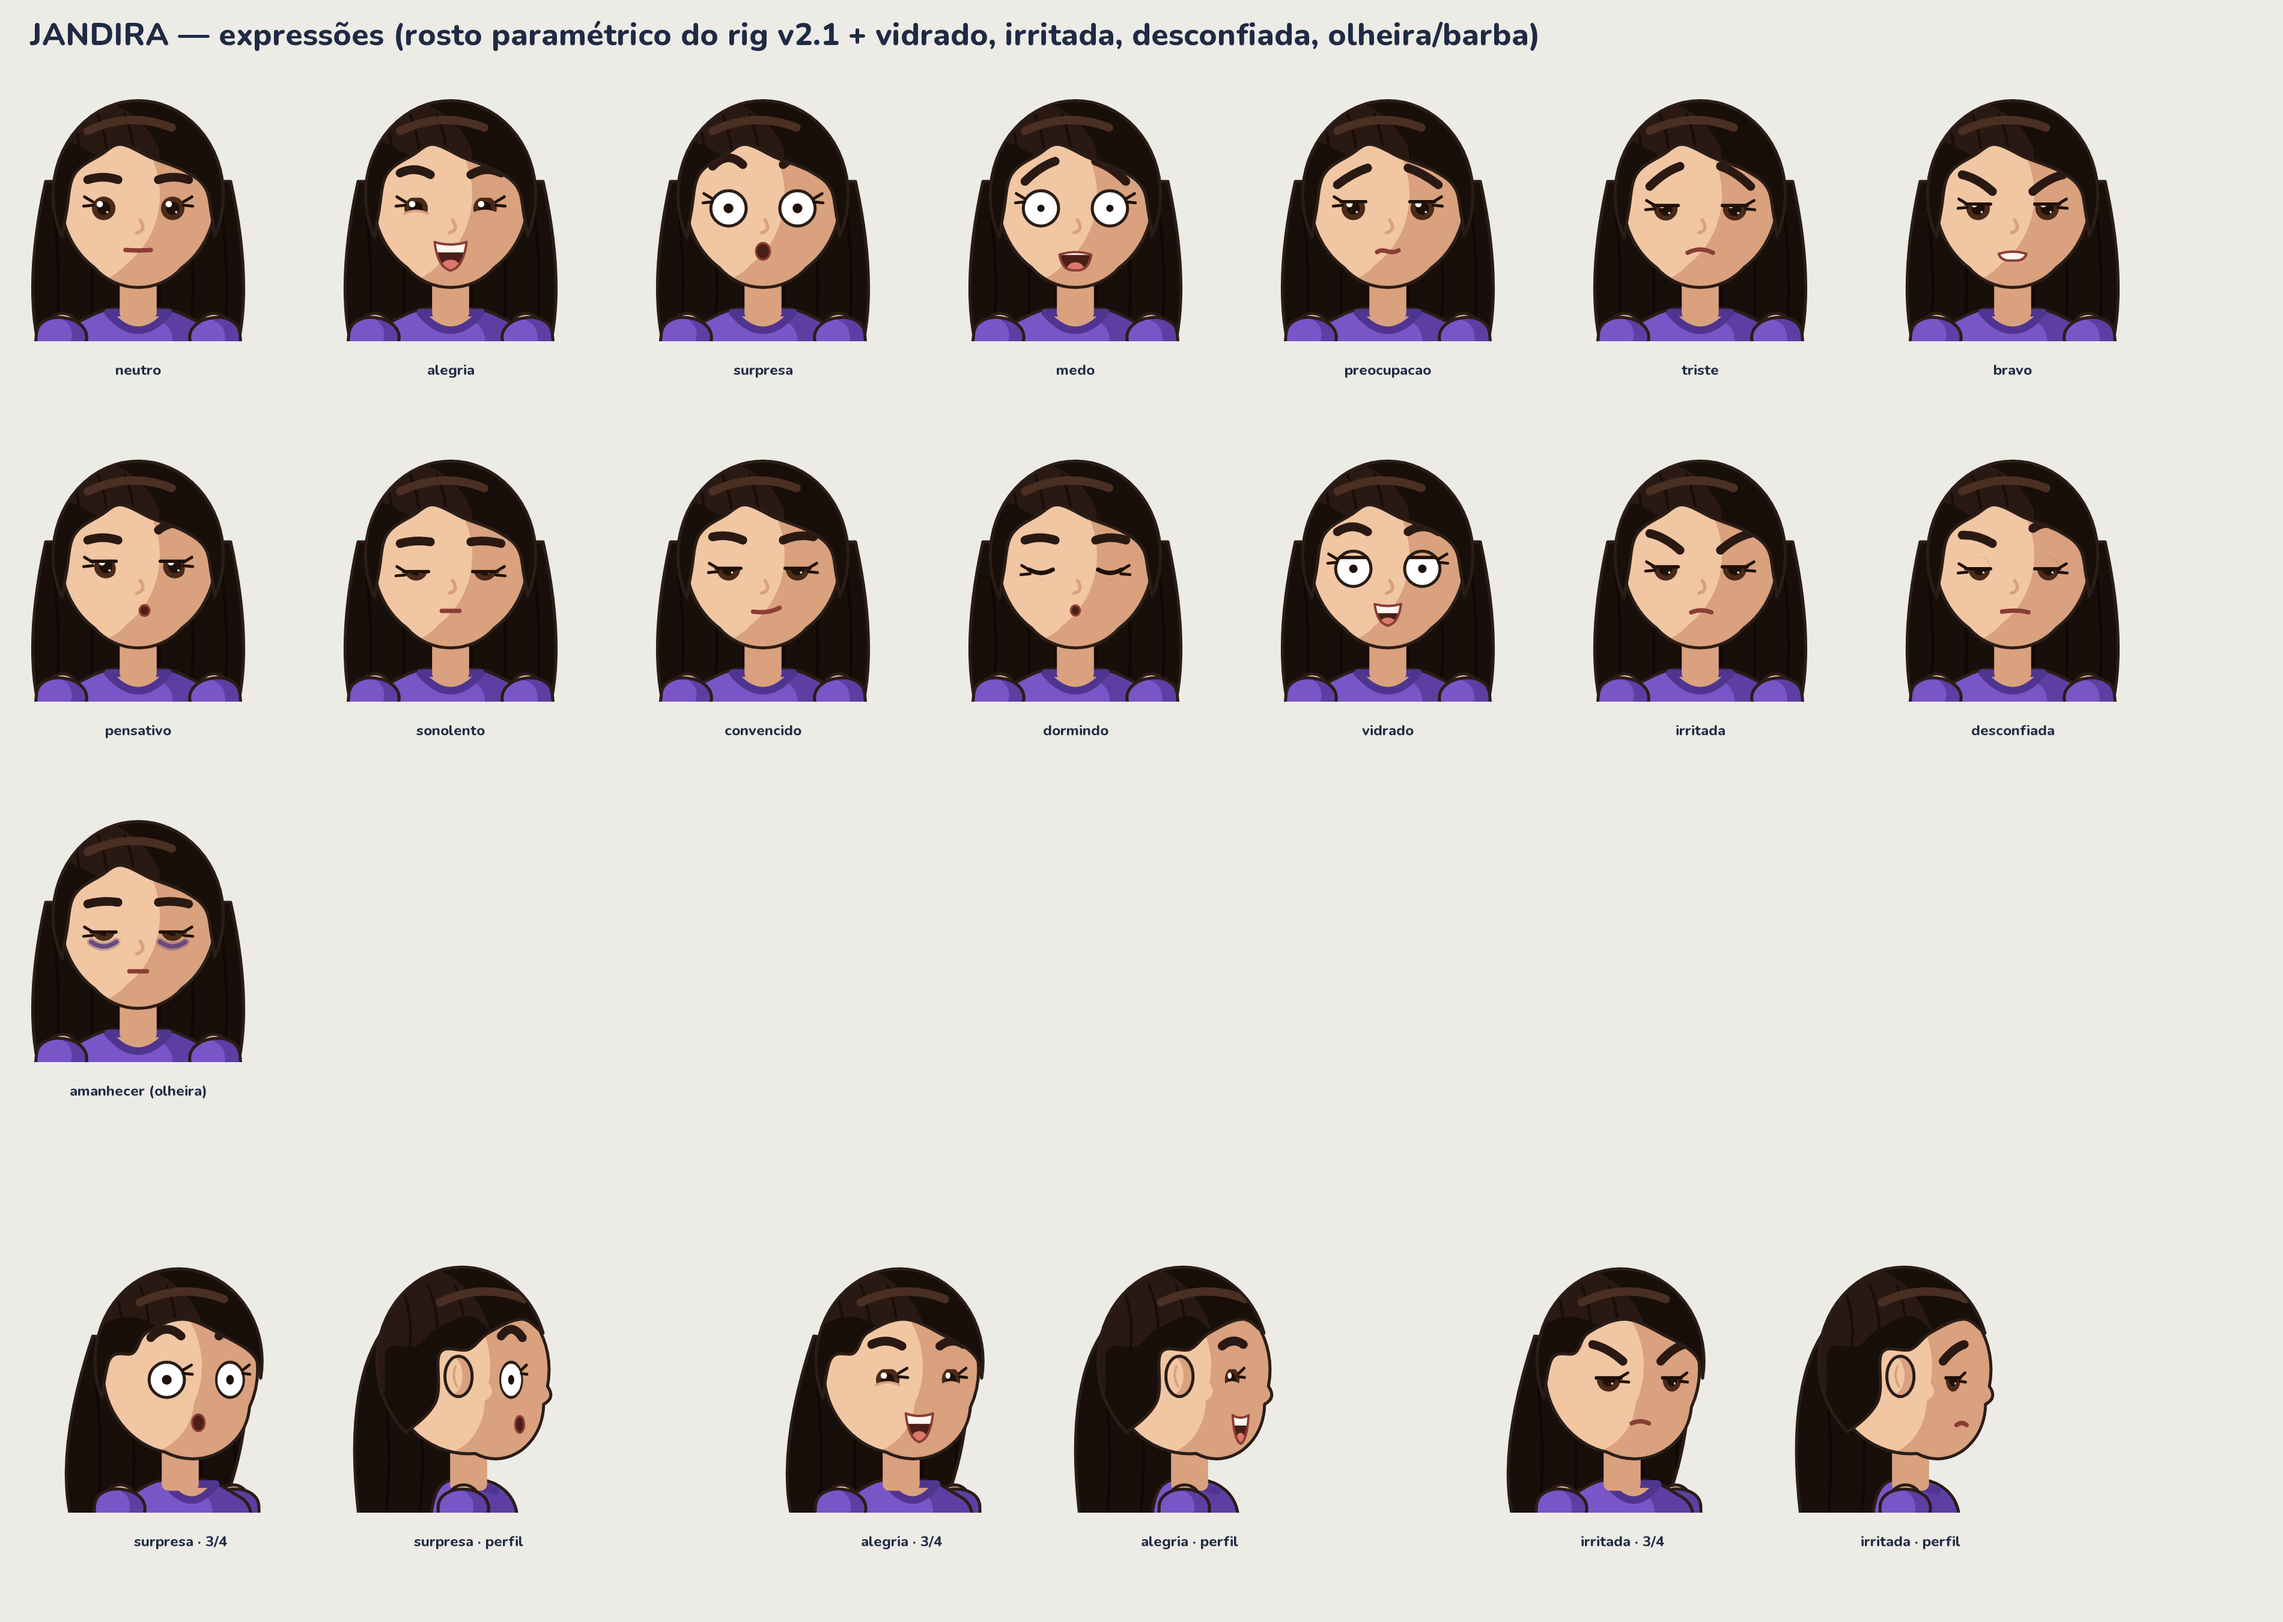
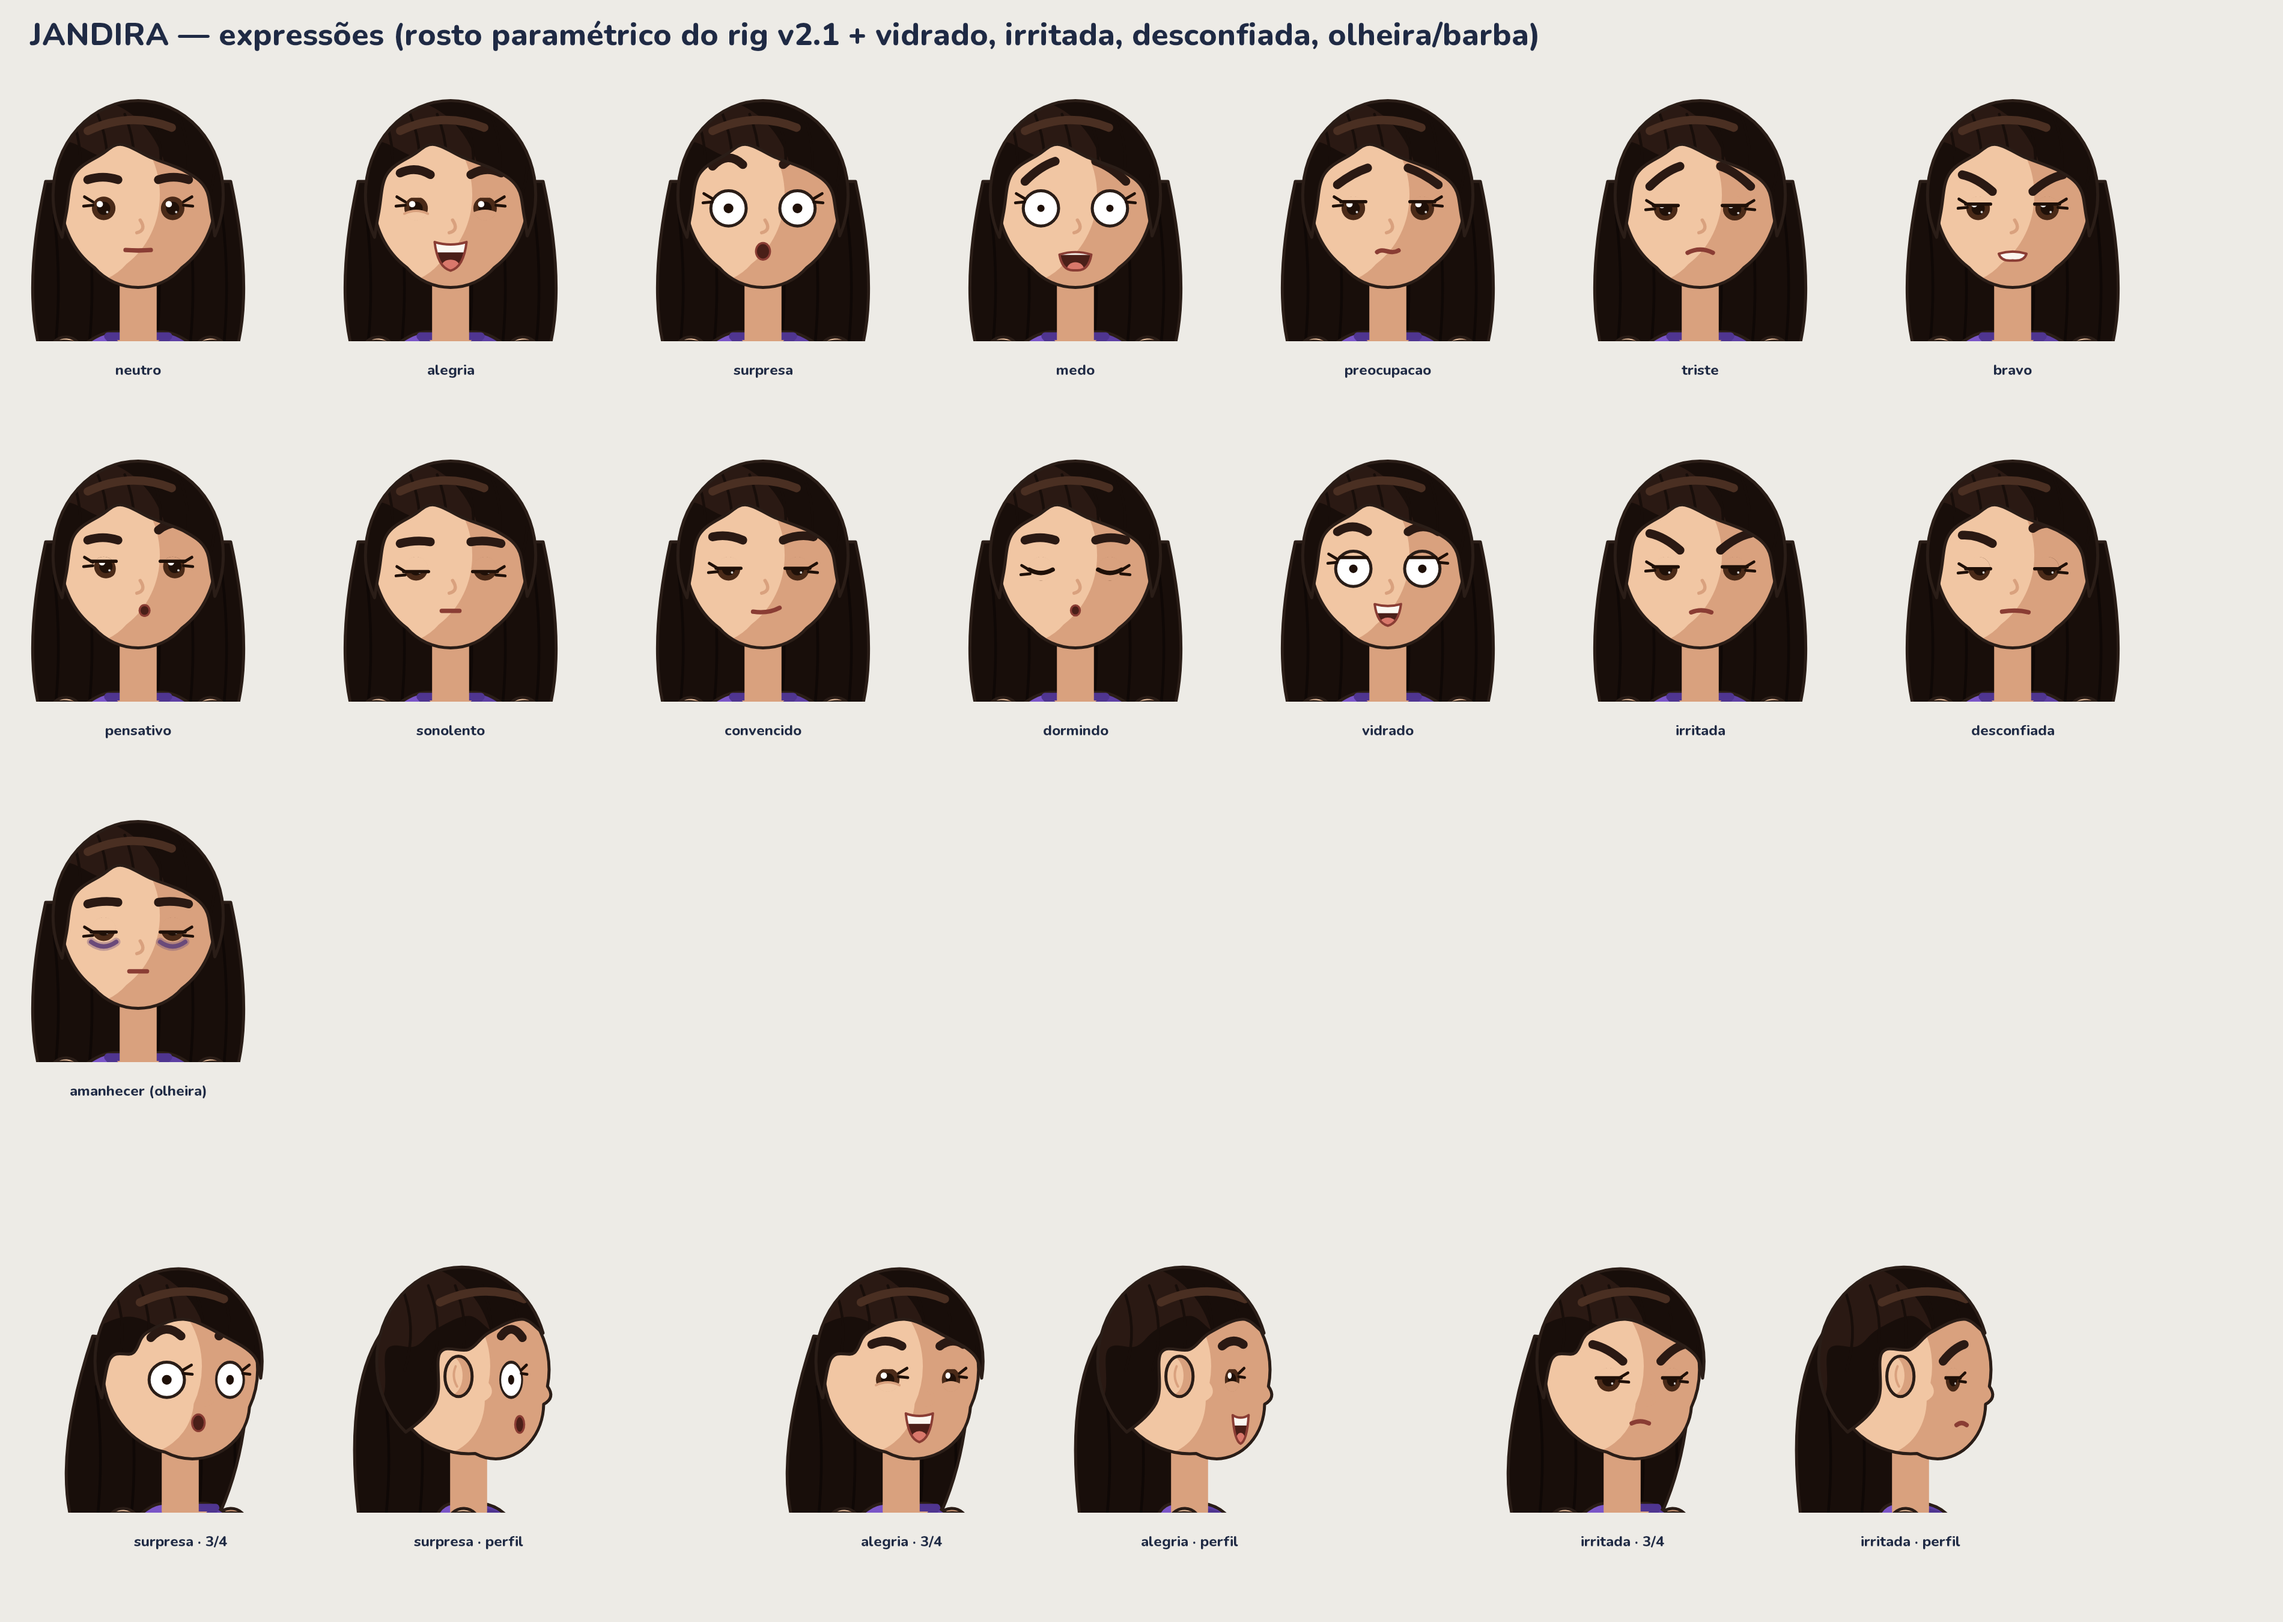
Juca e Jandira v1.1 (proposta): ombros mais baixos, pescoço mais longo, braços mais junto ao corpo; antes × depois
Claude-Session: https://claude.ai/code/session_011EYkUSqXLaaDeUvLHBExgD

diff --git a/personagens/adultos/rig_adulto.py b/personagens/adultos/rig_adulto.py
@@ -73,10 +73,11 @@ def _aplicar(H, esp):
     H.OMBRO_Y = -(P["ombro"] - P["barra_camisa"])
     H.PESCOCO_Y = -(P["pescoco"] - P["barra_camisa"])
     bx, qx = L["braco_x"], L["coxa_x"]
+    ab = L.get("braco_ang", 8.0)                      # v1.1: braços mais junto ao corpo em repouso
     H.LAYOUT = {
-        "frente": {"braco_d": (-bx, 8), "braco_e": (bx, -8), "coxa_d": (-qx, 0), "coxa_e": (qx, 0)},
-        "costas": {"braco_d": (bx, -8), "braco_e": (-bx, 8), "coxa_d": (qx, 0), "coxa_e": (-qx, 0)},
-        "tres_quartos": {"braco_d": (-bx * 0.79, 6), "braco_e": (bx * 0.70, -4), "coxa_d": (-qx * 0.8, 0), "coxa_e": (qx * 0.63, 0)},
+        "frente": {"braco_d": (-bx, ab), "braco_e": (bx, -ab), "coxa_d": (-qx, 0), "coxa_e": (qx, 0)},
+        "costas": {"braco_d": (bx, -ab), "braco_e": (-bx, ab), "coxa_d": (qx, 0), "coxa_e": (-qx, 0)},
+        "tres_quartos": {"braco_d": (-bx * 0.79, ab * 0.75), "braco_e": (bx * 0.70, -ab * 0.5), "coxa_d": (-qx * 0.8, 0), "coxa_e": (qx * 0.63, 0)},
         "perfil": {"braco_d": (-0.03, 2), "braco_e": (0.05, -2), "coxa_d": (-0.03, 0), "coxa_e": (0.06, 0)},
     }
     em = L["escala_mao"]
@@ -128,15 +129,15 @@ def _forma_tronco(H, esp, vista):
     p = skia.Path()
     if vista in ("frente", "costas", "tres_quartos"):
         k = 1.0 if vista != "tres_quartos" else 0.84
-        g = 0.14 * k
+        g = L.get("gola", 0.14) * k; qd, qc = L.get("trapezio", (0.075, 0.21))   # v1.1: trapézio desce mais devagar
         p.moveTo(-g, top - 0.025); p.lineTo(g, top - 0.025)
-        p.cubicTo(g + 0.09 * k, top - 0.02, om * k - 0.17 * k, top + 0.035, om * k - 0.085 * k, top + 0.075)
-        p.cubicTo(om * k - 0.03 * k, top + 0.10, om * k, top + 0.14, om * k, top + 0.21)
+        p.cubicTo(g + 0.09 * k, top - 0.02, om * k - 0.17 * k, top + qd * 0.45, om * k - 0.085 * k, top + qd)
+        p.cubicTo(om * k - 0.03 * k, top + qd + 0.025, om * k, top + qc - 0.07, om * k, top + qc)
         p.cubicTo(om * k + 0.01, meio, ci * k, meio * 0.5, ba * k, hem)
         p.lineTo(-ba * k, hem)
-        p.cubicTo(-ci * k, meio * 0.5, -om * k - 0.01, meio, -om * k, top + 0.21)
-        p.cubicTo(-om * k, top + 0.14, -om * k + 0.03 * k, top + 0.10, -om * k + 0.085 * k, top + 0.075)
-        p.cubicTo(-om * k + 0.17 * k, top + 0.035, -g - 0.09 * k, top - 0.02, -g, top - 0.025)
+        p.cubicTo(-ci * k, meio * 0.5, -om * k - 0.01, meio, -om * k, top + qc)
+        p.cubicTo(-om * k, top + qc - 0.07, -om * k + 0.03 * k, top + qd + 0.025, -om * k + 0.085 * k, top + qd)
+        p.cubicTo(-om * k + 0.17 * k, top + qd * 0.45, -g - 0.09 * k, top - 0.02, -g, top - 0.025)
         if vista == "tres_quartos":
             p.transform(skia.Matrix.Translate(0.02, 0))
     else:
@@ -398,7 +399,8 @@ def _desenhar_cabelo_tras(H, esp, c, vista, lado_luz):
 def _desenhar_cabeca(H, esp, c, vista, e, lado_luz):
     C = H.C
     hy = -0.58; rw, rh = H.PROP["largura_cabeca"] / 2, 0.5
-    pesc = H.rrect(-0.11, -0.12, 0.11, 0.14, 0.04)
+    pb = esp["larguras_H"].get("pescoco_baixo", 0.14)          # v1.1: pescoço desce até a gola (ombro mais baixo)
+    pesc = H.rrect(-0.11, -0.12, 0.11, pb, 0.04)
     c.drawPath(pesc, H.tinta(C["pele_s"]))
     sh = {"frente": 0.0, "tres_quartos": 0.12, "perfil": 0.26, "costas": 0.0}[vista]
 

diff --git a/personagens/adultos/README.md b/personagens/adultos/README.md
@@ -1,4 +1,4 @@
-# Juca e Jandira — rig adulto v1 (PROPOSTA, aguardando aprovação do diretor)
+# Juca e Jandira — rig adulto (v1 aprovado em 27/11/2026; v1.1 PROPOSTA: ombros mais baixos)
 
 Personagens do EP02 ("E se a sua namorada te desse um videogame…"). Nomes definidos pelo diretor em 27/11/2026; aparência proposta pelo Claude.
 
@@ -11,3 +11,10 @@ Personagens do EP02 ("E se a sua namorada te desse um videogame…"). Nomes defi
 - **Folhas:** `folhas/folha_modelo_*.png`, `folhas/folha_expressoes_*.png`, `folhas/folha_poses_ep02.png`. Regerar: `../../.venv/bin/python folhas.py && ../../.venv/bin/python folha_poses.py` (a segunda também confere os cotovelos: 0 invertidos nas 6 poses).
 
 Limitações: o cabelo da Jandira não balança ainda (fica para a animação); as vistas espelhadas trocam o lado da risca do cabelo (mesma limitação do Heitor); o controle de perfil é um desenho frontal comprimido (trapaça 2D).
+
+## v1.1 — PROPOSTA (27/11/2026, pedido do diretor depois do EP02): ombros mais baixos
+"Abaixar um pouco os braços, os ombros estão muito pra cima." Mudanças só de parâmetro (`modelos.json`):
+- ombro 3,72 → 3,58 H; pescoço desce até a gola (`pescoco_baixo` 0,30); trapézio com caimento mais suave (`trapezio` [0,10; 0,25]);
+- braços em repouso mais junto ao corpo (8° → 4°, `braco_ang`) e o encaixe do ombro 0,02 H mais para dentro.
+Antes × depois: `folhas/proposta_v1_1_ombros_antes_depois.jpg`. Folhas regeneradas com a v1.1; 0 cotovelos invertidos nas poses do EP02.
+Obs.: o EP02 foi renderizado com a v1; renderizar o EP02 de novo agora usaria a v1.1.
